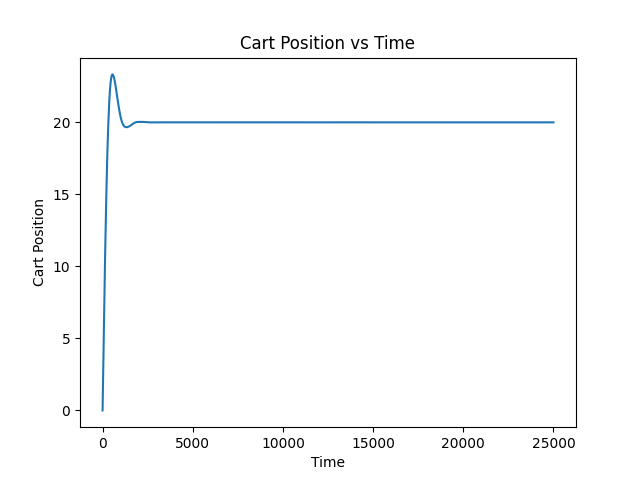
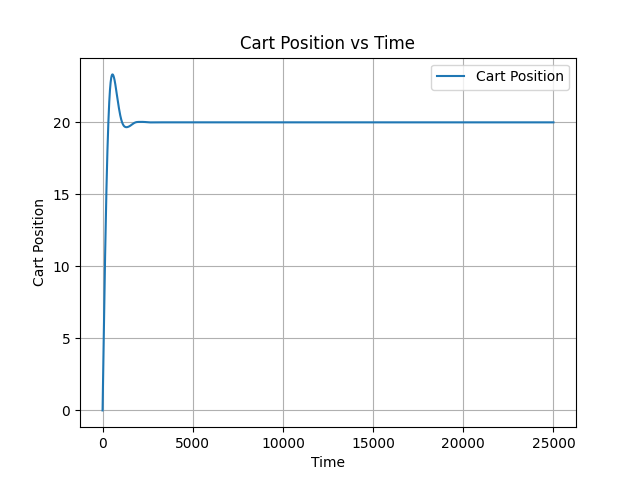
images remade

diff --git a/Assignment_1/animation_code.py b/Assignment_1/animation_code.py
@@ -143,12 +143,17 @@ def plot_graph(x_data, y_data, x_label, y_label, title):
     os.makedirs("assets/", exist_ok=True)
     os.makedirs("assets/part_4", exist_ok=True)
     
-    plt.plot(x_data, y_data)
+    plt.figure()
+    plt.plot(x_data, y_data, label=y_label)
     plt.xlabel(x_label)
     plt.ylabel(y_label)
     plt.title(title)
     
     title_name = title.replace(" ", "_")
+    
+    plt.legend()
+    plt.grid(True)
+    
     plt.savefig(f"assets/part_4/{title_name}.png")
 
 # Example usage:
